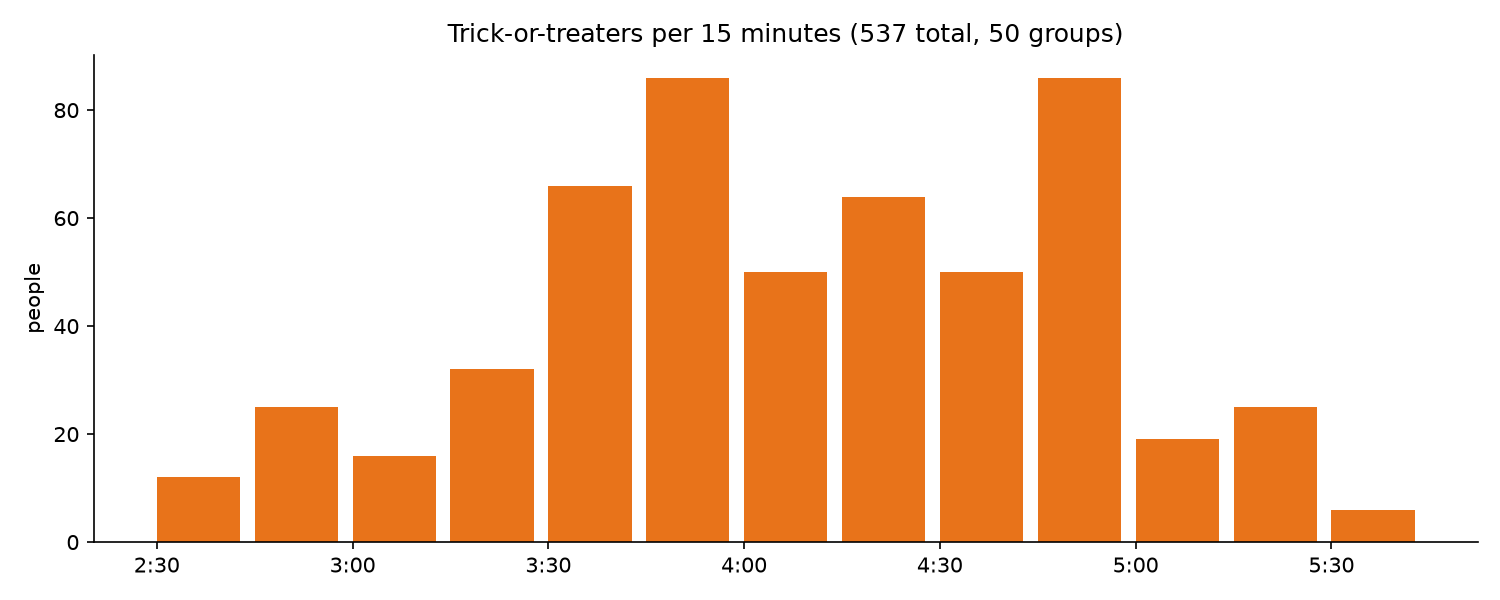
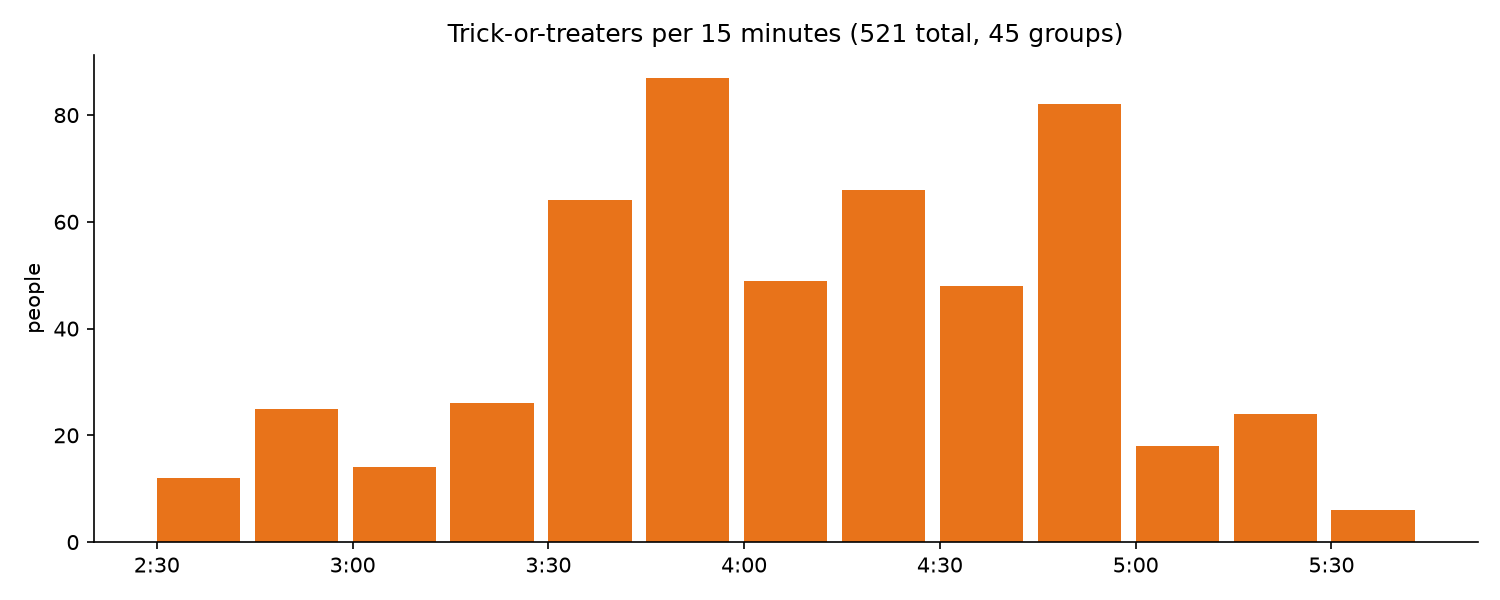
Mask the pumpkin stack by its fixed box instead of guessing
The automatic "doesn't move and looks like a prop" check missed the stack in
hundreds of frames and still caught people queuing at the gate. The stack
never moves, so zone.json now lists its box and any detection overlapping it
is ignored. Count: 537 -> 521.

diff --git a/residents.py b/residents.py
@@ -42,6 +42,12 @@ def in_zone(df: pd.DataFrame, zone: dict) -> pd.DataFrame:
     return df[Polygon(zone["polygon"]).contains_points(feet)].reset_index(drop=True)
 
 
+def on_props(df: pd.DataFrame, props: list, min_iou: float) -> np.ndarray:
+    """True for detections that are really a decoration: they mostly overlap a prop's box."""
+    boxes = df[["x1", "y1", "x2", "y2"]].to_numpy()
+    return np.array([any(iou(b, prop) >= min_iou for prop in props) for b in boxes], dtype=bool)
+
+
 def crop(frames_dir: Path, r) -> Image.Image:
     img = Image.open(frames_dir / f"{r.frame}.jpg").convert("RGB")
     pad_x, pad_y = (r.x2 - r.x1) * 0.1, (r.y2 - r.y1) * 0.05
@@ -126,6 +132,7 @@ def main() -> None:
     zone = json.loads(args.zone.read_text())
     residents = json.loads(args.residents.read_text())
     df = in_zone(pd.read_csv(args.detections, dtype={"frame": str}), zone)
+    ignored = on_props(df, zone.get("ignore_boxes", []), zone.get("ignore_iou", 0.5))
 
     arch, weights = args.clip.split(":")
     model, _, preprocess = open_clip.create_model_and_transforms(arch, pretrained=weights)
@@ -180,6 +187,7 @@ def main() -> None:
     # frame, the (up to) N most host-like people are the hosts.
     n_hosts = len(names)
     host_p = p[:, :n_hosts].sum(1)
+    host_p[ignored] = 0
     min_prob = residents.get("min_prob", 0.5)
     df["who"], df["score"] = "visitor", 0.0
     frames = df.groupby("frame").indices
@@ -213,17 +221,11 @@ def main() -> None:
             free = [r for r in frames[frame] if df["who"].iat[r] == "visitor"]
             tag(sorted(free, key=lambda r: -host_p[r])[:missing], fill_prob)
 
-    # Decorations: a "person" box that sits in the same spot for minutes (e.g. the
-    # stack of pumpkins on the lawn). People shift around; props don't.
-    key = list(zip(*(df[c].floordiv(12) for c in ["x1", "y1", "x2", "y2"])))
-    spot = pd.Series(key, index=df.index)
-    frames_at_spot = df.groupby(spot)["frame"].transform("nunique")
-    # Kids stand at the gate over and over too, so the crop must also look like a prop.
-    prop = probs.argmax(1) == len(names) + VISITOR_PROMPTS.index("a stack of white pumpkins")
-    static = (frames_at_spot >= residents.get("static_frames", 120)) & prop & (df["who"] == "visitor")
-    df.loc[static, "who"] = "decoration"
-    crop_sheet(df[static], args.frames, review / "decorations.jpg", "Tagged as decorations (not counted)")
-    print(f"decorations: {static.sum()} detections")
+    # Decorations: the detector sometimes sees a prop (the pumpkin stack) as a
+    # person. Props never move, so zone.json lists their boxes to ignore.
+    df.loc[ignored, "who"] = "decoration"
+    crop_sheet(df[ignored], args.frames, review / "decorations.jpg", "Ignored as decorations (not counted)")
+    print(f"decorations: {ignored.sum()} detections")
 
     for i, name in enumerate(names):
         tagged = df[df["who"] == name]

diff --git a/README.md b/README.md
@@ -18,11 +18,13 @@ Requires `ffmpeg` (`brew install ffmpeg`) and [uv](https://docs.astral.sh/uv/).
 
 1. **Yard zone** (`zone.json`): only people whose feet are inside the yard count, so people walking by on the
    sidewalk don't.
-2. **Hosts** (`residents.json`): the people handing out candy are in view all afternoon. Each is described in a
+2. **Decorations** (`zone.json` `ignore_boxes`): props the detector mistakes for people never move, so their boxes are
+   listed once and any detection mostly overlapping one is ignored.
+3. **Hosts** (`residents.json`): the people handing out candy are in view all afternoon. Each is described in a
    sentence; CLIP picks out clear examples, a small classifier learns their look, and the person tags are averaged
    over each short track. If a host was recognized just before and after a frame, the closest match in that frame
-   is tagged too. Anything that stays in exactly the same spot for minutes (a pumpkin stack) is a decoration.
-3. **Visits**: frames with visitors are grouped into visits, split by 20+ seconds of empty yard. A visit's size is
+   is tagged too.
+4. **Visits**: frames with visitors are grouped into visits, split by 20+ seconds of empty yard. A visit's size is
    the number of arrivals (the count stepping up and staying up), and at least the most people seen at once.
 
 ## Checking the results
